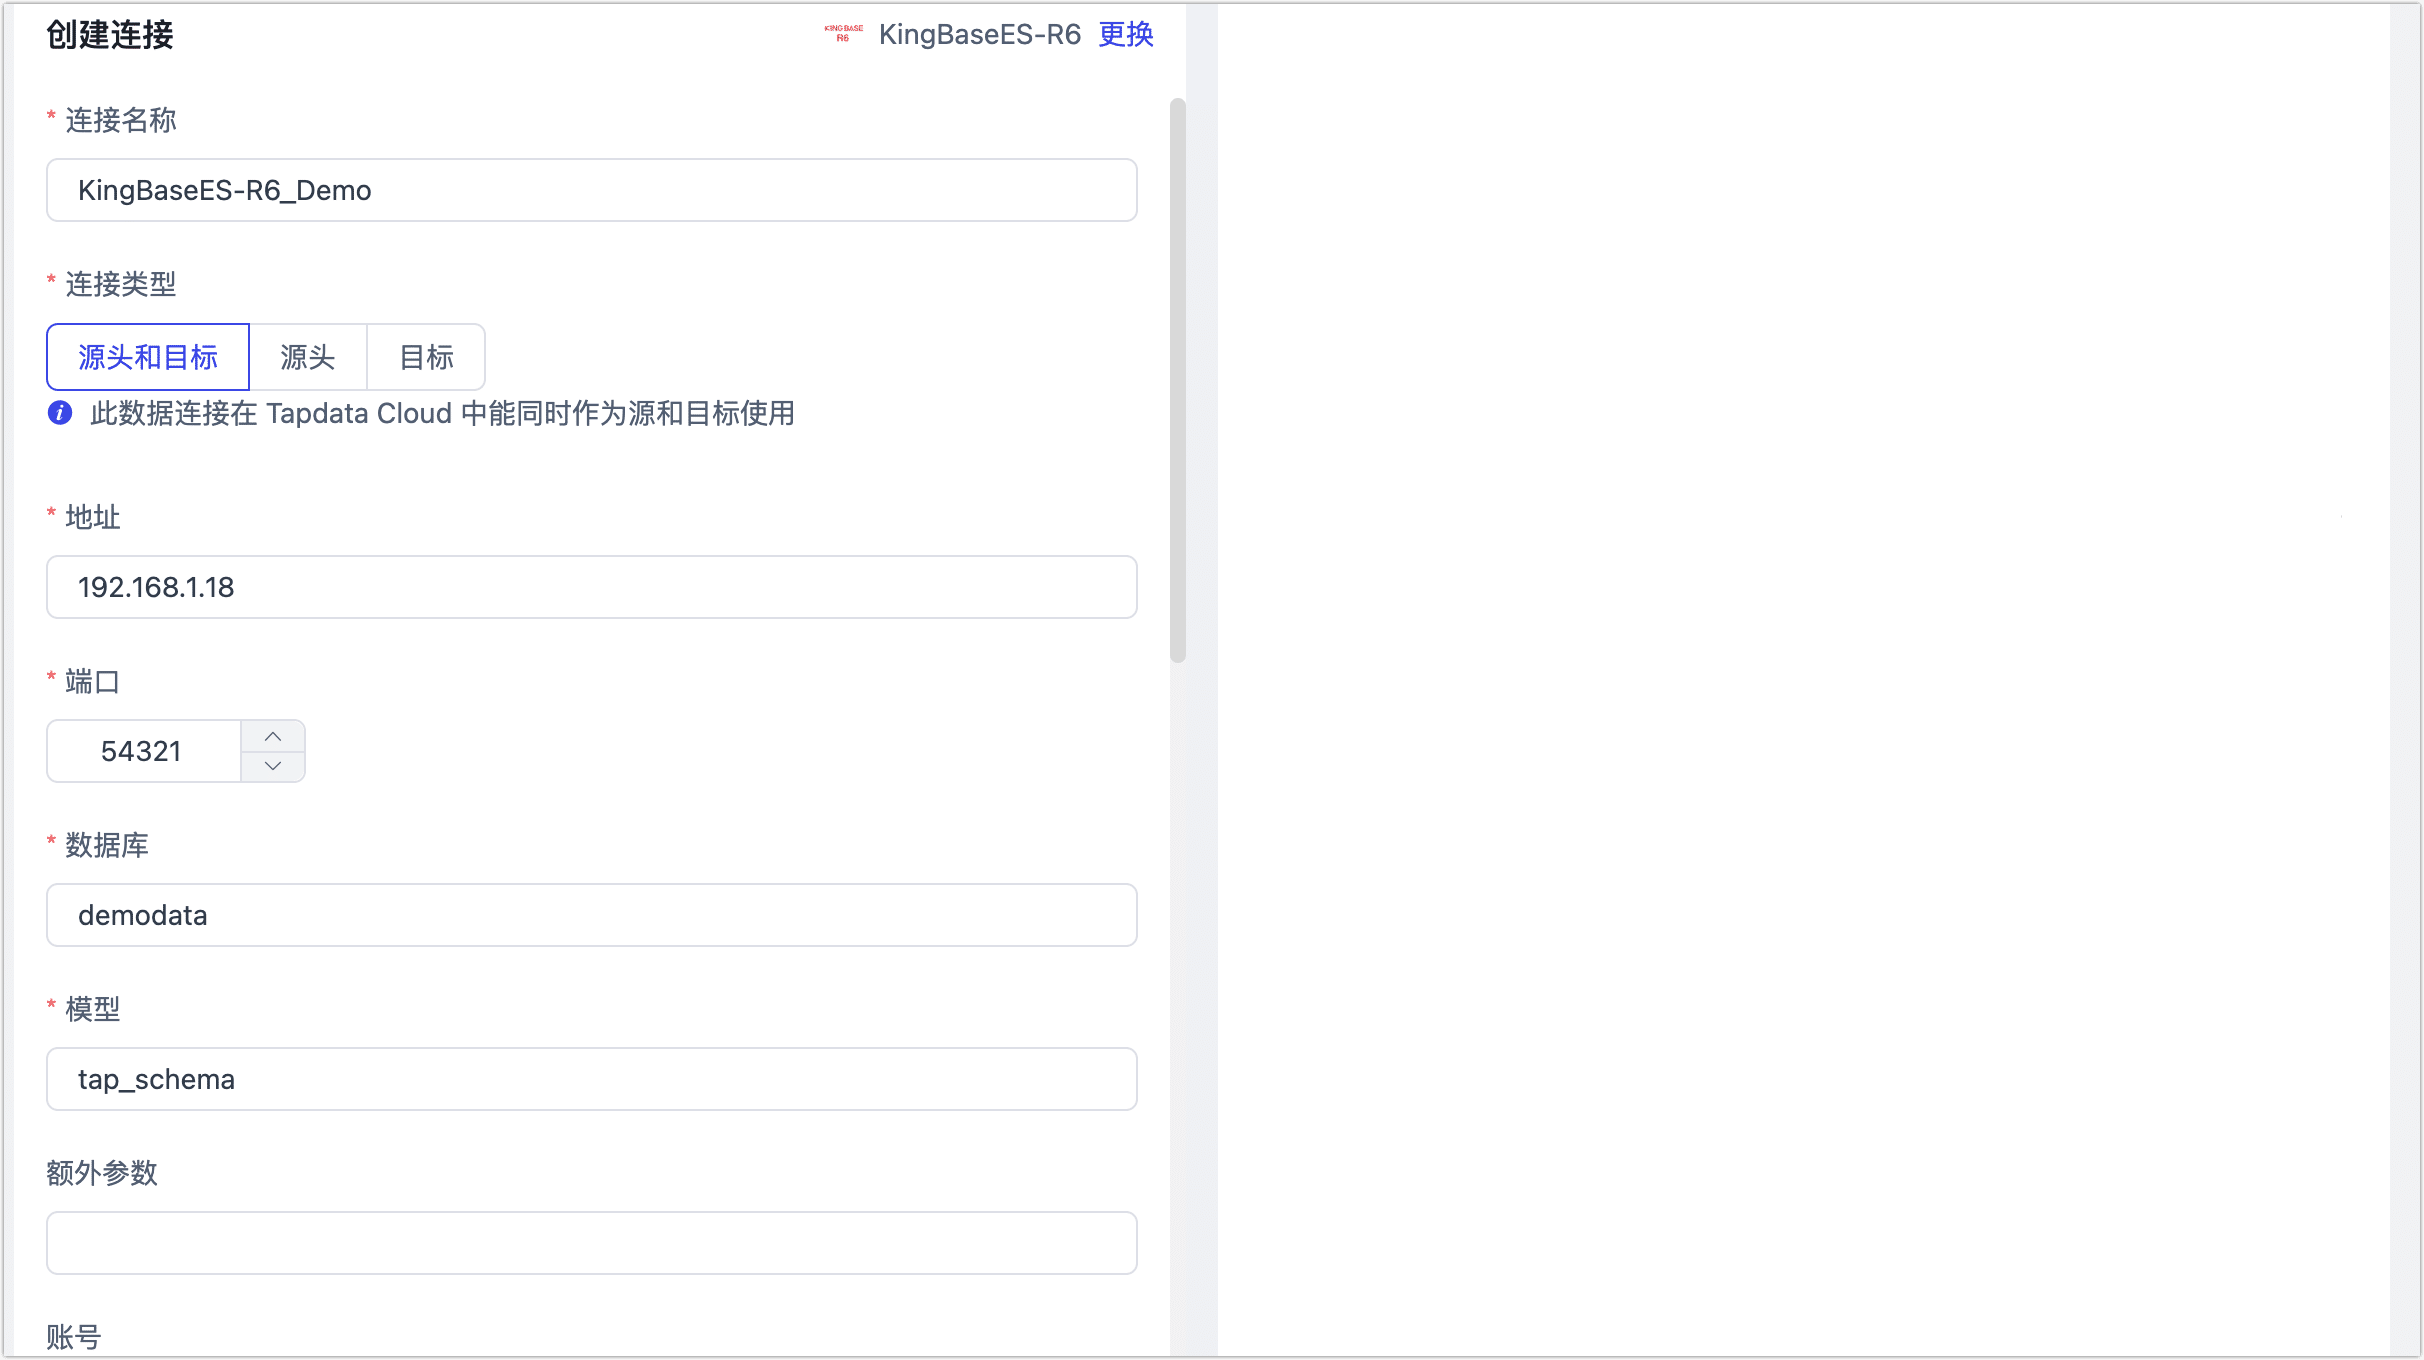
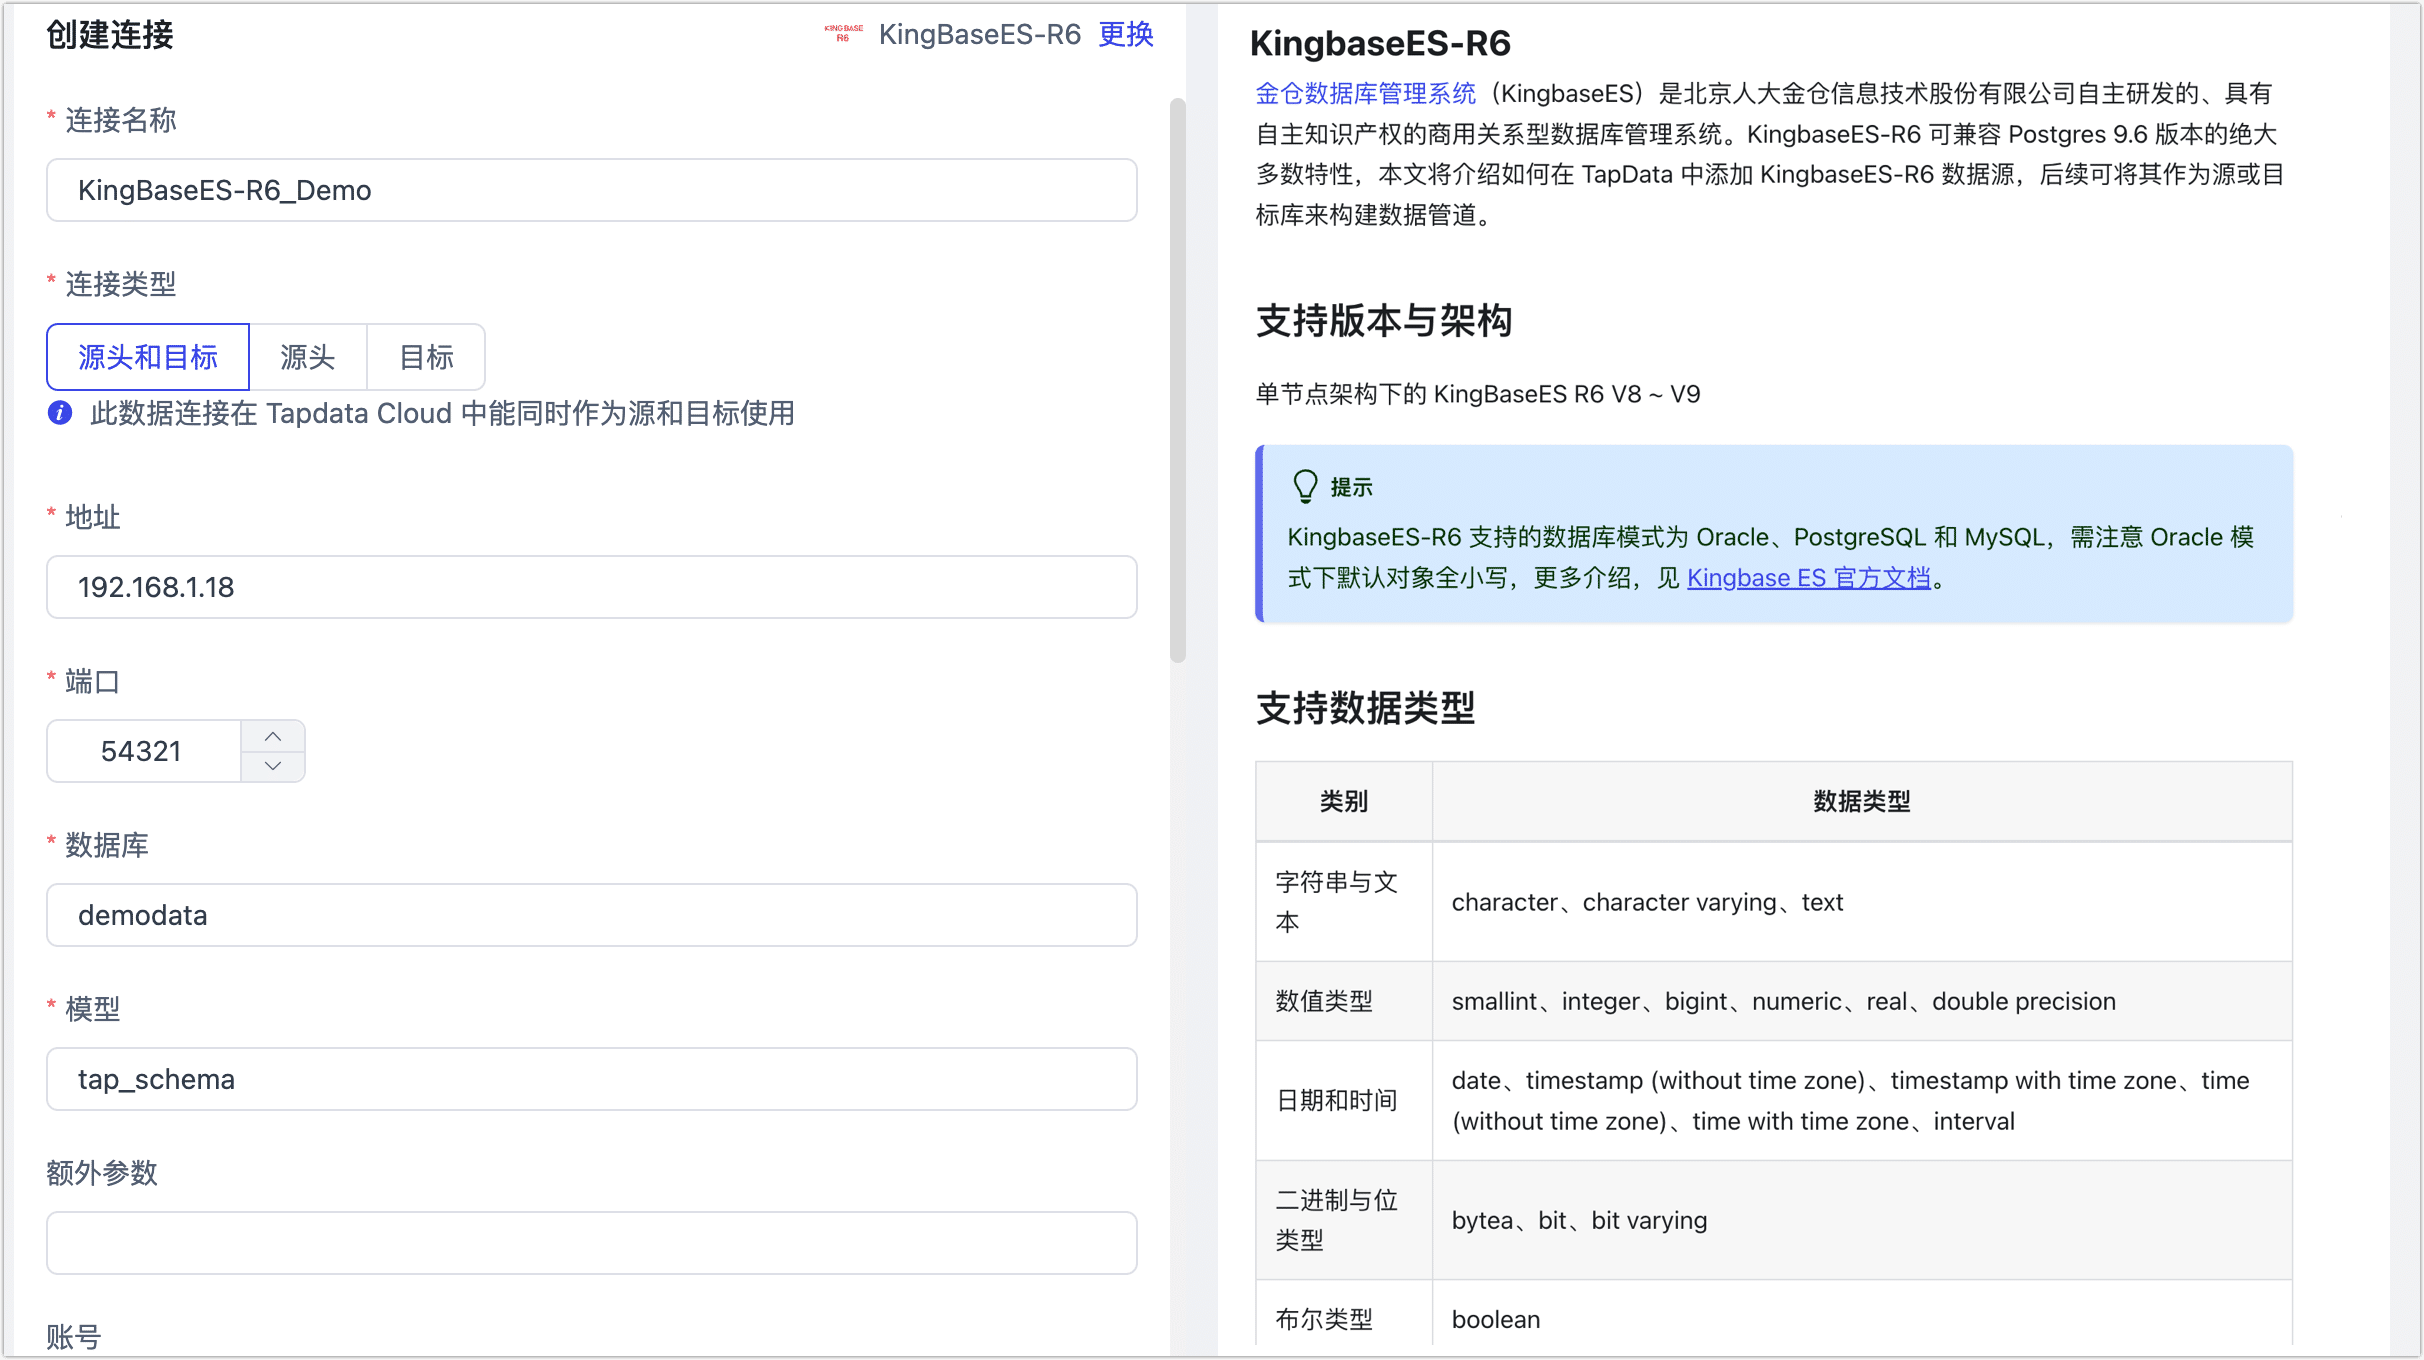
Update KingbaseES-R6 Connection Tutorial

diff --git a/docs/prerequisites/on-prem-databases/kingbase-es-r6.md b/docs/prerequisites/on-prem-databases/kingbase-es-r6.md
@@ -3,16 +3,16 @@ import Content1 from '../../reuse-content/_enterprise-and-cloud-features.md';
 
 <Content1 />
 
-金仓数据库管理系统（KingbaseES）是北京人大金仓信息技术股份有限公司自主研发的、具有自主知识产权的商用关系型数据库管理系统。KingbaseES-R6 可兼容 Postgres 9.6 版本的绝大多数特性，本文将介绍如何在 TapData 中添加 KingbaseES-R6 数据源，后续可将其作为源或目标库来构建数据管道。
+[金仓数据库管理系统](https://help.kingbase.com.cn/v8/index.html)（KingbaseES）是北京人大金仓信息技术股份有限公司自主研发的、具有自主知识产权的商用关系型数据库管理系统。KingbaseES-R6 可兼容 Postgres 9.6 版本的绝大多数特性，本文将介绍如何在 TapData 中添加 KingbaseES-R6 数据源，后续可将其作为源或目标库来构建数据管道。
 
 ```mdx-code-block
 import Tabs from '@theme/Tabs';
 import TabItem from '@theme/TabItem';
 ```
 
-## 支持版本
+## 支持版本与架构
 
-KingBaseES-V8R6
+单节点架构下的 KingBaseES R6 V8 ~ V9
 
 :::tip
 
@@ -20,11 +20,44 @@ KingbaseES-R6 支持的数据库模式为 Oracle、PostgreSQL 和 MySQL，需注
 
 :::
 
-import Content from '../../reuse-content/beta/_beta.md';
+## 支持数据类型
 
-<Content />
+| **类别**         | **数据类型**                                                 |
+| ---------------- | ------------------------------------------------------------ |
+| 字符串与文本     | character、character varying、text                           |
+| 数值类型         | smallint、integer、bigint、numeric、real、double precision   |
+| 日期和时间       | date、timestamp (without time zone)、timestamp with time zone、time (without time zone)、time with time zone、interval |
+| 二进制与位类型   | bytea、bit、bit varying                                      |
+| 布尔类型         | boolean                                                      |
+| 网络地址与标识符 | cidr、inet、macaddr、uuid                                    |
+| 几何数据类型     | point、line、lseg、box、path、polygon、circle                |
+| XML 与 JSON      | xml、json                                                    |
+| 数组类型         | array（选择增量数据读取插件为 Walminer 时不支持）            |
 
-## <span id="prerequisite">准备工作</span>
+## 支持同步的操作
+
+**INSERT**、**UPDATE**、**DELETE**
+
+:::tip
+
+作为同步目标时，您可以通过任务节点的高级配置选择写入策略，如插入冲突时更新或丢弃，更新失败时插入或仅打印日志。此外，还可应用和执行源库解析的 ADD COLUMN、CHANGE COLUMN、DROP COLUMN 和 RENAME COLUMN 操作。
+
+:::
+
+## 功能限制
+
+- KingbaseES-R6 作为源库时，不支持采集其 DDL（如增加字段），且不支持指定增量数据采集时间。
+- KingbaseES-R6 不支持字符串类型存放`\0`，TapData 会将其自动过滤以避免异常报错。
+- Walminer 插件目前仅支持连接合并共享挖掘。
+
+## 注意事项
+
+- 使用基于复制槽的日志插件（如 **wal2json**）时，过多的共享挖掘进程可能导致 WAL 日志积压，增加磁盘压力。建议减少挖掘进程数量或及时删除无用的 CDC 任务和复制槽。
+- 基于 WAL 日志的插件（如 **walminer**）在执行共享挖掘时会频繁读写 `walminer_contents` 表，从而产生一定负载，但因目前仅支持单任务挖掘，影响相对较小。
+
+## 准备工作
+
+### 作为源库
 
 1. 以管理员身份登录 KingbaseES-R6 数据库。
 
@@ -39,57 +72,109 @@ import Content from '../../reuse-content/beta/_beta.md';
 
 3. 为刚创建的账号授予权限，您也可以基于业务需求自定义权限控制。
 
-```mdx-code-block
-<Tabs className="unique-tabs">
-<TabItem value="作为源库">
-```
-
-```sql
--- 进入要授权的数据库
-\c database_name
-
--- 授予目标 Schema 的表读取权限
-GRANT SELECT ON ALL TABLES IN SCHEMA schema_name TO username;
-
--- 授予目标 Schema 的 USAGE 权限
-GRANT USAGE ON SCHEMA schema_name TO username;
-
--- 授予复制权限，如仅需读取数据库的全量数据，则无需执行
-ALTER USER username REPLICATION;
-```
-
-</TabItem>
-
-<TabItem value="作为目标库">
-
-```sql
--- 进入要授权的数据库
-\c database_name;
-
--- 授予目标 Schema 的 USAGE 和 CREATE 权限
-GRANT CREATE,USAGE ON SCHEMA schemaname TO username;
-
--- 授予目标 Schema 的表读写权限
-GRANT SELECT,INSERT,UPDATE,DELETE,TRUNCATE ON ALL TABLES IN SCHEMA schemaname TO username;
-```
-
-</TabItem>
-</Tabs>
-
-* **database_name**：数据库名称。
-* **schema_name**：Schema 名称。
-* **username**：用户名。
-
-4. 如需读取源库的增量变更，您还需要执行下述格式的命令，修改复制标识为 **FULL**（使用整行作为标识），该属性决定了当数据发生 UPDATE/DELETE 时，日志记录的字段。
-
-   ```sql
-   ALTER TABLE schema_name.table_name REPLICA IDENTITY FULL;
+   ```mdx-code-block
+   <Tabs className="unique-tabs">
+   <TabItem value="仅读取全量数据">
    ```
 
-   * **schema_name**：Schema 名称。
-   * **table_name**：表名称。
+   ```sql
+   -- 进入要授权的数据库
+   \c database_name
+   
+   -- 授予目标 Schema 的表读取权限
+   GRANT SELECT ON ALL TABLES IN SCHEMA schema_name TO username;
+   
+   -- 授予目标 Schema 的 USAGE 权限
+   GRANT USAGE ON SCHEMA schema_name TO username;
+   ```
 
-   完成操作后，您还需要联系[技术支持](../../support.md)提供相关插件，在 KingbaseES-R6 所属的服务器上进行安装。
+   </TabItem>
+
+   <TabItem value="读取全量+增量数据">
+
+   ```sql
+   -- 进入要授权的数据库
+   \c database_name
+   
+   -- 授予目标 Schema 的表读取权限
+   GRANT SELECT ON ALL TABLES IN SCHEMA schema_name TO username;
+   
+   -- 授予目标 Schema 的 USAGE 权限
+   GRANT USAGE ON SCHEMA schema_name TO username;
+   
+   -- 授予复制权限
+   ALTER USER username REPLICATION;
+   ```
+
+   </TabItem>
+   </Tabs>
+
+   * **database_name**：数据库名称。
+   * **schema_name**：Schema 名称。
+   * **username**：用户名。
+
+4. 如需读取源库的增量变更，您还需要执行下述步骤。
+
+   1. 修改复制标识为 **FULL**（使用整行作为标识），该属性决定了当数据发生 UPDATE/DELETE 时，日志记录的字段。
+
+      ```sql
+      ALTER TABLE schema_name.table_name REPLICA IDENTITY FULL;
+      ```
+
+      * **schema_name**：Schema 名称。
+      * **table_name**：表名称。
+
+   2. 修改配置文件 `kingbase.conf`，将 `wal_level` 的值修改为 `logical`，并调大 `max_replication_slots` 的值，示例如下。
+
+      ```bash
+      wal_level = logical
+      # 至少要大于将其作为源时，挖掘的任务数
+      max_replication_slots = 30
+      ```
+
+   3. 修改权限配置文件 `sys_hba.conf`，增加下述内容以保障账号访问权限。
+
+      ```bash
+      # 替换 username 为刚刚创建的用户
+      local   replication     username                     trust
+      host    replication     username  0.0.0.0/32         md5
+      host    replication     username  ::1/128            trust
+      ```
+
+   4. 安装日志插件。
+
+      * **wal2json**：需要联系[技术支持](../../support.md)提供相关插件，在 KingbaseES-R6 所属的服务器上进行安装。
+      * **walminer**：V87B 以上的版本内置该插件，使用方法，见 [WalMiner 使用示例](https://help.kingbase.com.cn/v8/admin/reference/walminer/walminer-4.html)。该方式不依赖逻辑复制，无需设置 `wal_level` 为 `logical`，也不需要调整复制槽配置，但需授予超级管理员权限。
+
+### 作为目标库
+
+1. 以管理员身份登录 KingbaseES-R6 数据库。
+
+2. 执行下述格式的命令，创建用于数据同步/开发任务的账号。
+
+   ```sql
+   CREATE USER username WITH PASSWORD 'password';
+   ```
+
+   * **username**：用户名。
+   * **password**：密码。
+
+3. 为刚创建的账号授予权限，您也可以基于业务需求自定义权限控制。
+
+   ```sql
+   -- 进入要授权的数据库
+   \c database_name;
+   
+   -- 授予目标 Schema 的 USAGE 和 CREATE 权限
+   GRANT CREATE,USAGE ON SCHEMA schemaname TO username;
+   
+   -- 授予目标 Schema 的表读写权限
+   GRANT SELECT,INSERT,UPDATE,DELETE,TRUNCATE ON ALL TABLES IN SCHEMA schemaname TO username;
+   ```
+
+   * **database_name**：数据库名称。
+   * **schema_name**：Schema 名称。
+   * **username**：用户名。
 
 
 
@@ -112,7 +197,7 @@ GRANT SELECT,INSERT,UPDATE,DELETE,TRUNCATE ON ALL TABLES IN SCHEMA schemaname TO
      * **连接名称**：填写具有业务意义的独有名称。
      * **连接类型**：支持将 KingbaseES-R6 作为源或目标库。
      * **地址**：数据库连接地址。
-     * **端口**：数据库的服务端口。
+     * **端口**：数据库的服务端口，默认为 54321。
      * **数据库**：数据库名称，即一个连接对应一个数据库，如有多个数据库则需创建多个数据连接。
      * **模型**：Schema 名称。
      * **额外参数**：额外的连接参数，默认为空。
@@ -120,17 +205,14 @@ GRANT SELECT,INSERT,UPDATE,DELETE,TRUNCATE ON ALL TABLES IN SCHEMA schemaname TO
      * **密码**：数据库账号对应的密码。
      * **日志插件**：如需读取 KingbaseES-R6 的数据变更，实现增量数据同步，您需要根据[准备工作](#prerequisite)的指引，完成插件的安装。
    * **高级设置**
-     * **时区**：默认为数据库所用的时区，您也可以根据业务需求手动指定。
+     * **时区**：默认配置为 0 时区，如果设置为其他时区，可能会影响数据同步的时间。受影响的字段包括不带时区的字段，如 `timestamp (without time zone)` 和 `time (without time zone)`。带时区的字段（如 `timestamp with time zone` 和 `time with time zone`）及 `date` 类型不受影响。
      * **共享挖掘**：[挖掘源库](../../user-guide/advanced-settings/share-mining.md)的增量日志，可为多个任务共享源库的增量日志，避免重复读取，从而最大程度上减轻增量同步对源库的压力，开启该功能后还需要选择一个外存用来存储增量日志信息。
      * **包含表**：默认为**全部**，您也可以选择自定义并填写包含的表，多个表之间用英文逗号（,）分隔。
      * **排除表**：打开该开关后，可以设定要排除的表，多个表之间用英文逗号（,）分隔。
      * **Agent 设置**：默认为**平台自动分配**，您也可以手动指定 Agent。
      * **模型加载频率**：数据源中模型数量大于 1 万时，TapData 将按照设置的时间定期刷新模型。
-     * **开启心跳表**：当连接类型选择为**源头和目标**、**源头**时，支持打开该开关，由 TapData 在源库中创建一个名为 **_tapdata_heartbeat_table** 的心跳表并每隔 10 秒更新一次其中的数据（数据库账号需具备相关权限），用于数据源连接与任务的健康度监测。
-       :::tip
-       数据源需在数据复制/开发任务引用并启动后，心跳任务任务才会启动，此时您可以再次进入该数据源的编辑页面，即可单击**查看心跳任务**。
-       :::
-
+     * **开启心跳表**：当连接类型为源头或目标时，可启用该开关。TapData 会在源库创建 `_tapdata_heartbeat_table` 心跳表，并每 10 秒更新一次（需具备相应权限），用于监测数据源连接与任务的健康状况。心跳任务在数据复制/开发任务启动后自动启动，您可在数据源编辑页面查看心跳任务。
+   
 6. 单击**连接测试**，测试通过后单击**保存**。
 
    :::tip
@@ -138,3 +220,10 @@ GRANT SELECT,INSERT,UPDATE,DELETE,TRUNCATE ON ALL TABLES IN SCHEMA schemaname TO
    如提示连接测试失败，请根据页面提示进行修复。
 
    :::
+
+## 节点高级特性
+
+在配置数据同步/转换任务时，将 KingbaseES-R6 作为目标节点时，您可以选择是否开启**忽略 NotNull**（默认关闭），可实现在目标库建表时忽略 NOT NULL 的限制。
+
+![节点高级特性](../../images/kingbase-r6_advanced_settings.png)
+
